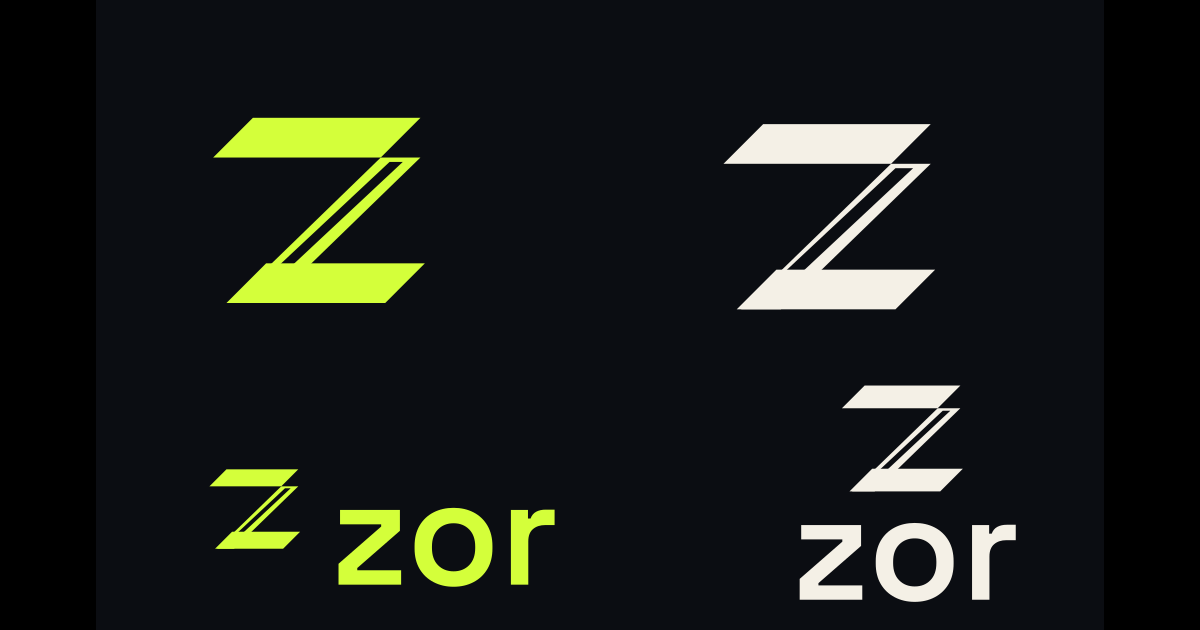
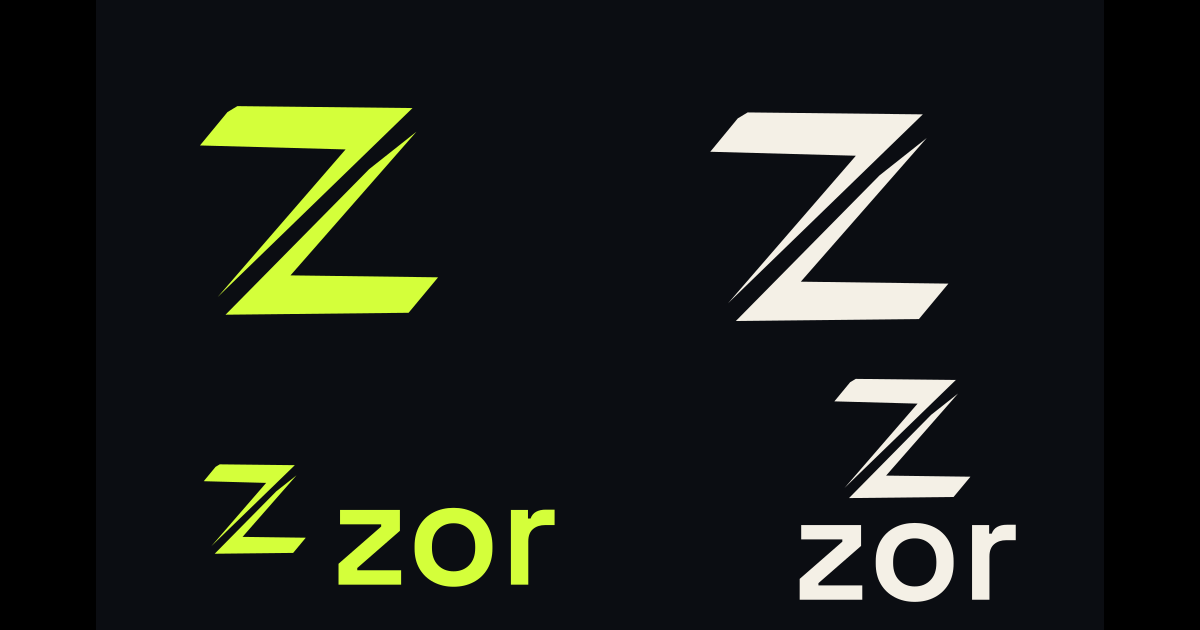
fix(branding): trace Zor mark from reference

diff --git a/docs/superpowers/specs/2026-08-08-zor-complete-rebrand-design.md b/docs/superpowers/specs/2026-08-08-zor-complete-rebrand-design.md
@@ -20,7 +20,7 @@ The repository remains at its existing Forgejo and GitHub path, `hiten/IronPulse
 
 ### Brand character and palette
 
-Zor is sharp, fast, premium, and training-focused. Its mark follows the approved reference: a compact, connected geometric `Z` with a solid outer silhouette (top rail, diagonal body, and bottom rail) and a narrow parallel transparent cut inside the diagonal. The cut must not extend beyond the Z or turn the mark into detached rails. It must remain recognizable at launcher-icon and favicon sizes without depending on texture, shadows, gradients, or a font.
+Zor is sharp, fast, premium, and training-focused. Its mark follows the approved JPEG reference: a compact 1.14:1 geometric `Z` made from two interlocking filled components separated by a narrow parallel negative-space slash. The canonical coordinates are traced from the clean standalone mark in that reference, then simplified into straight vector segments; they must not be replaced by an invented three-rail construction. It must remain recognizable at launcher-icon and favicon sizes without depending on texture, shadows, gradients, or a font.
 
 Canonical product tokens are:
 
